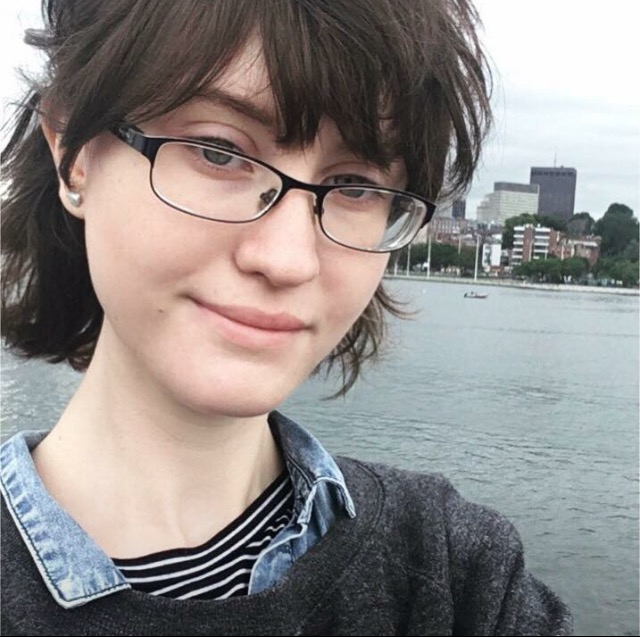
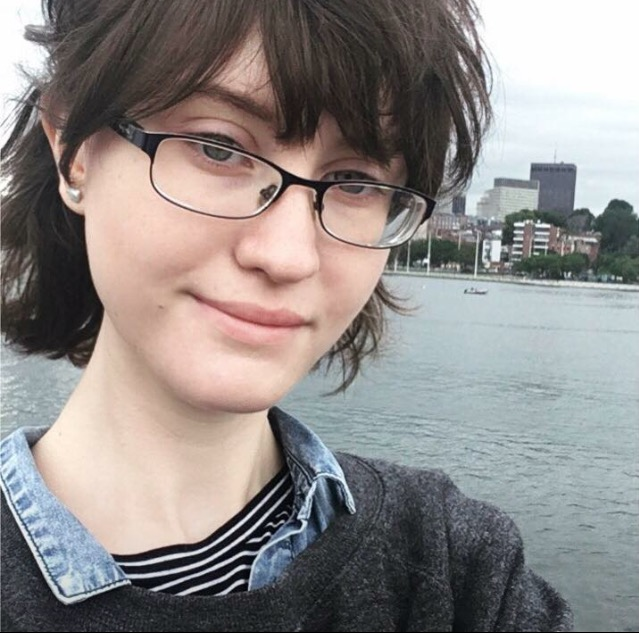
try 2 at link fixing

diff --git a/about.html b/about.html
@@ -29,7 +29,7 @@ DaniRowe - About Me
   <div id=centerbox>
   </div>
   <div id= profilebox>
-  <img src = "Profile.jpg" width= 150px height= auto>
+  <img src = "profile.jpg" width= 150px height= auto>
   </div>
   <div id = "box5">
     <br>
